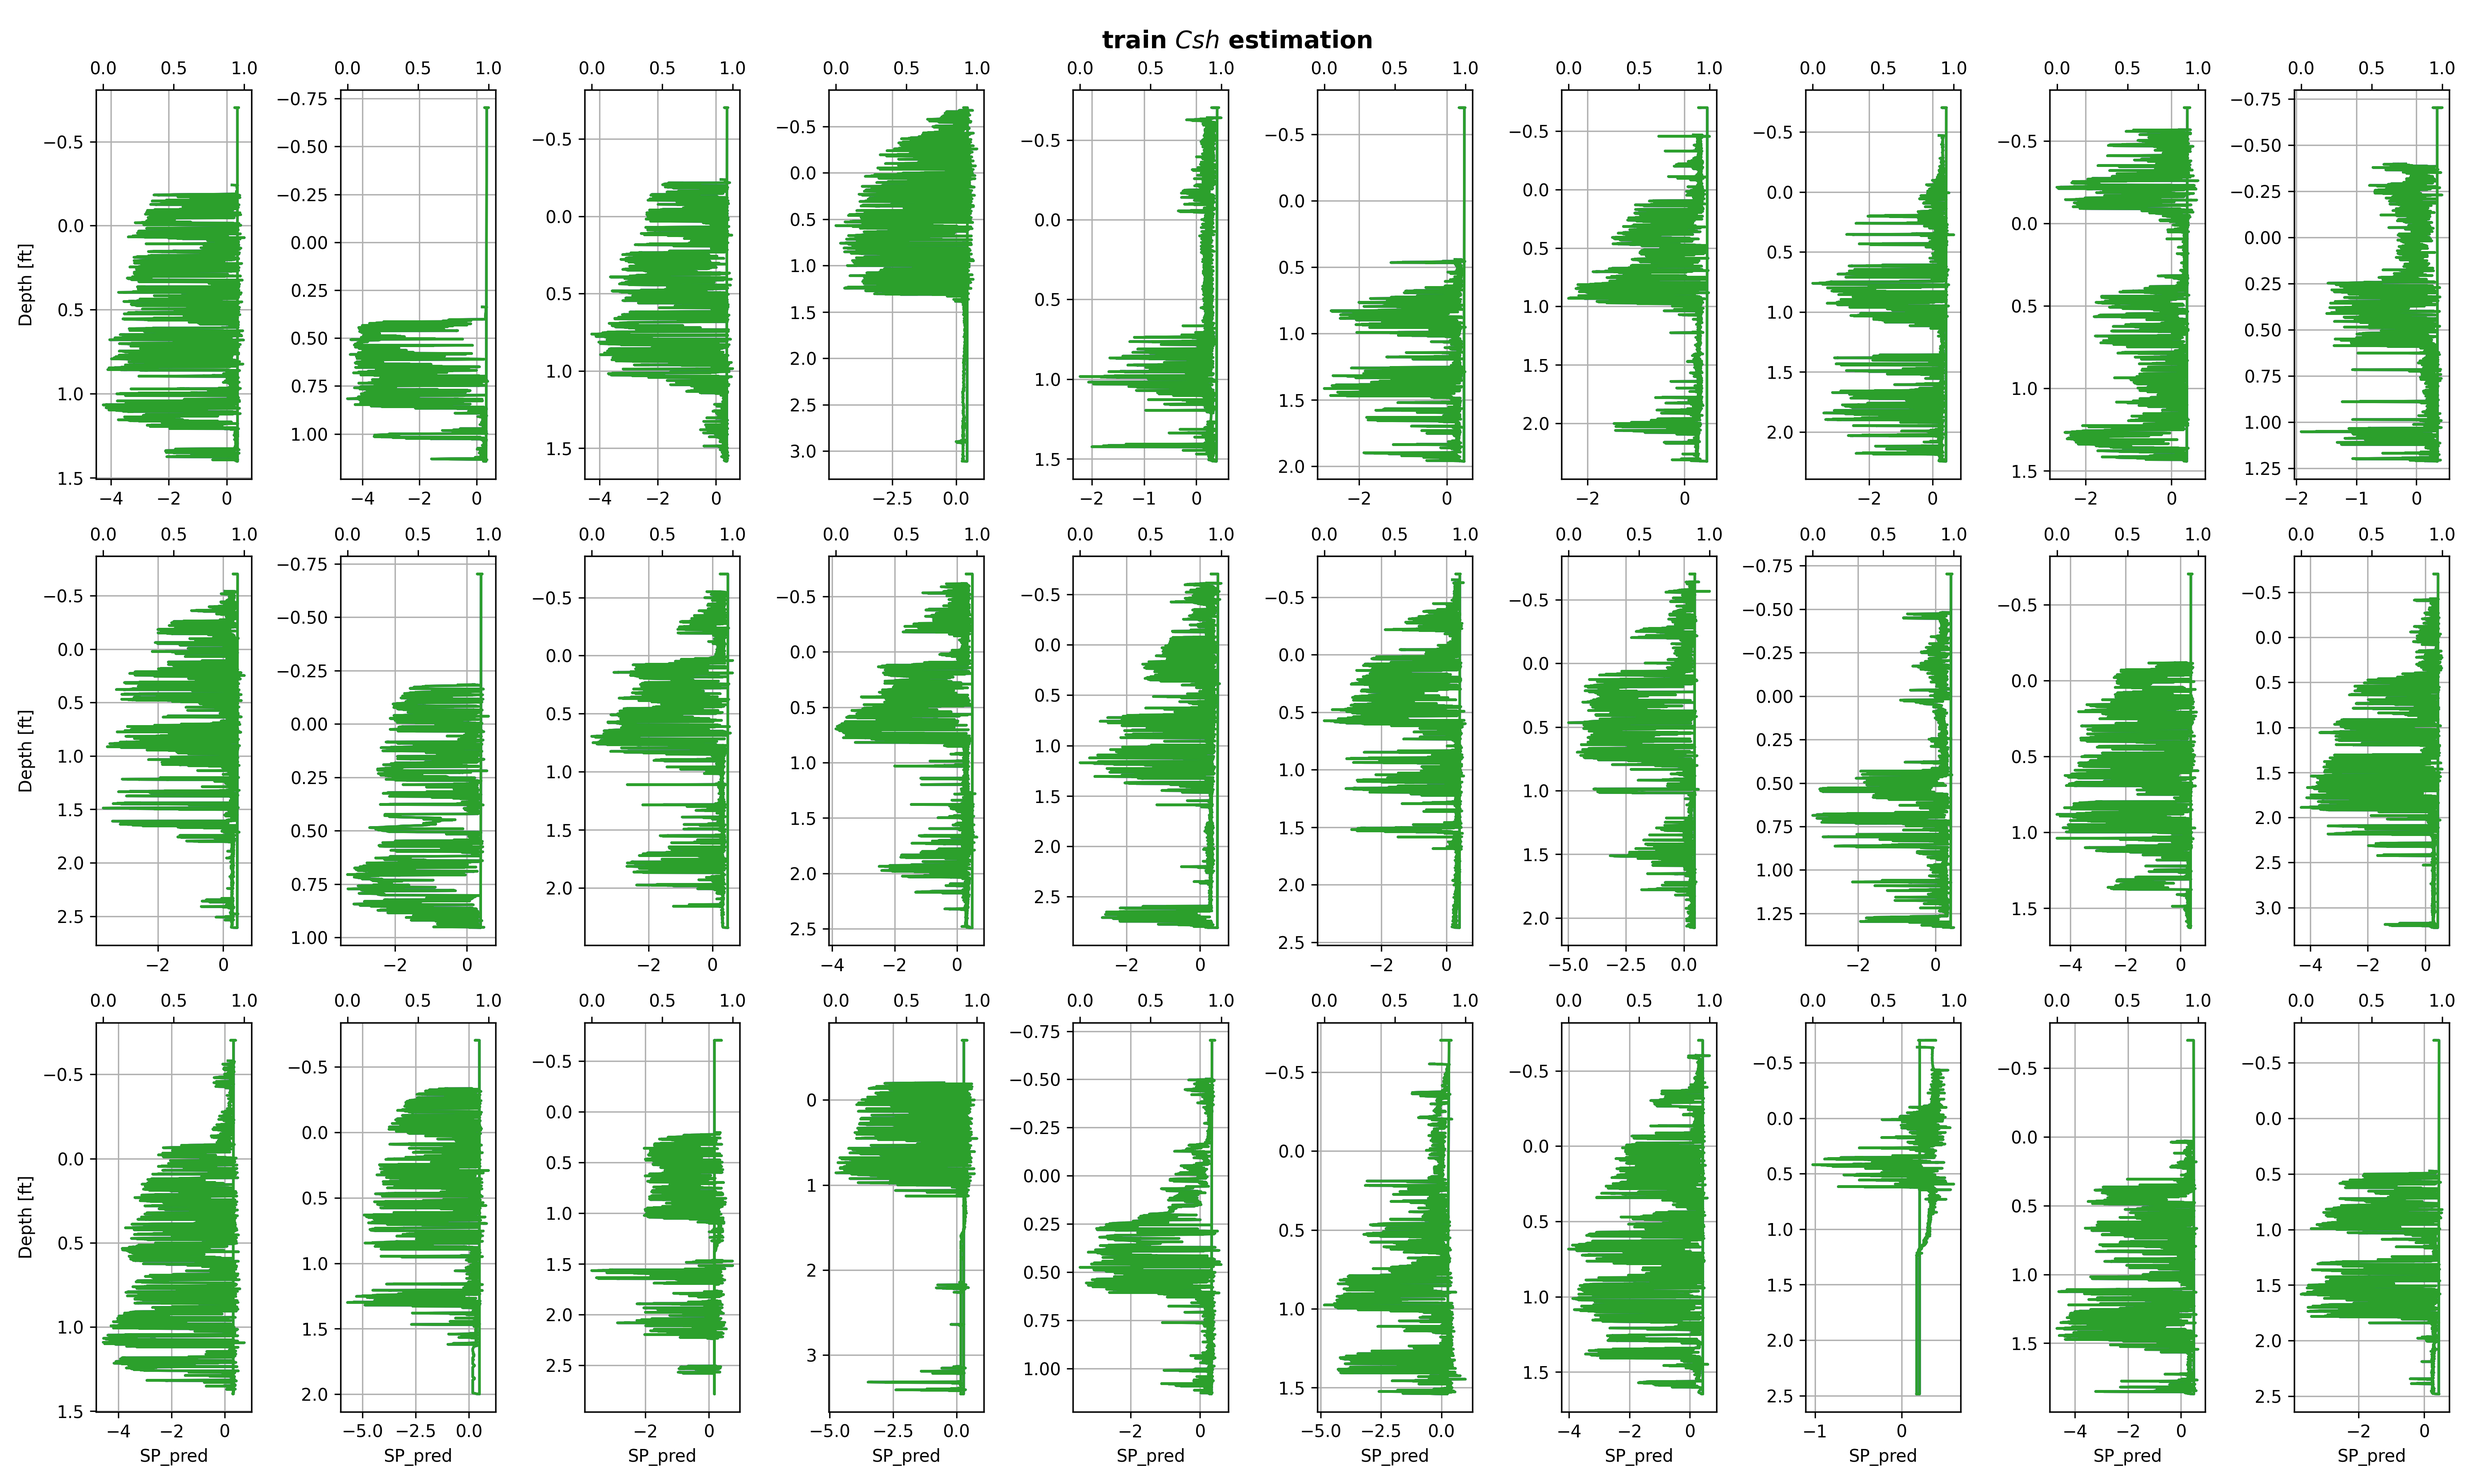
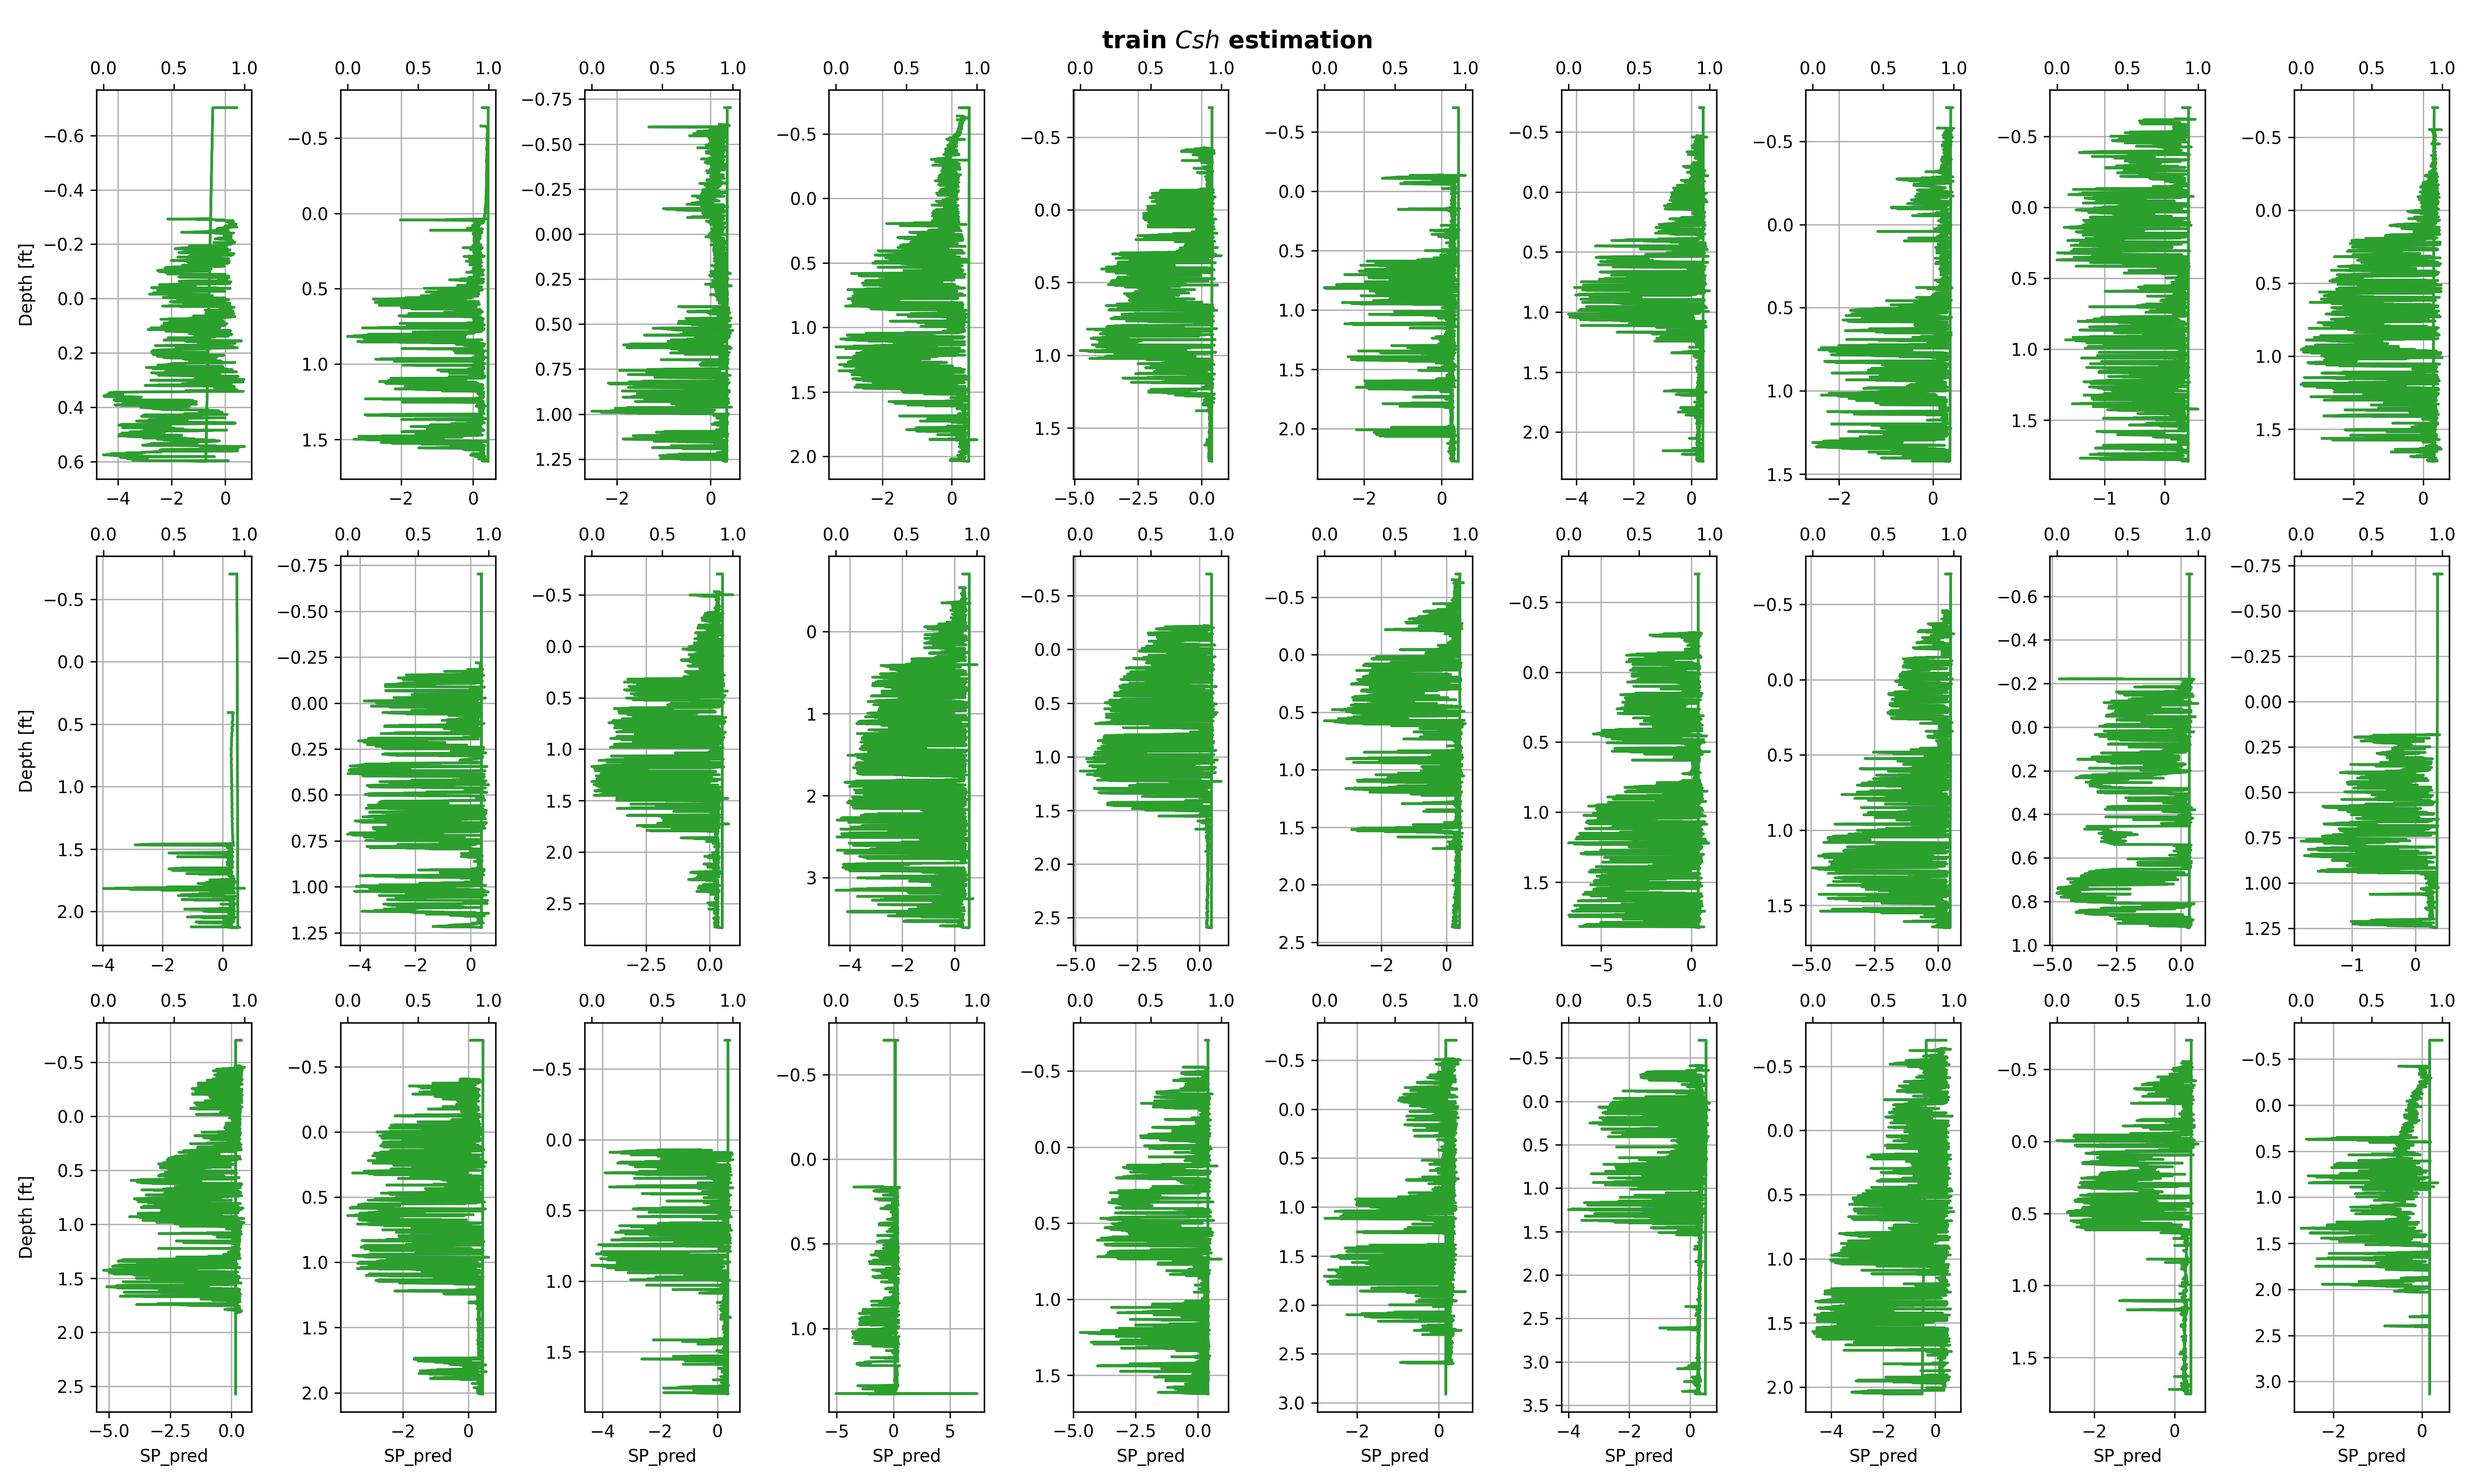
update
transfer learning and export to .LAS

diff --git a/auto_baseline_correction.py b/auto_baseline_correction.py
@@ -290,7 +290,7 @@ class BaselineCorrection:
             if self.return_data:
                 return self.model, self.encoder
         elif pretrained == None:
-            self.make_nn(kernel_size=kernel_size, drop=dropout, depths=depths)
+            self.make_nn(kernel_size=kernel_size, drop=dropout, depths=depths, in_channels=self.X_train.shape[-1])
             print('-'*50,'\n','# Parameters: {:,}'.format(self.model.count_params())) if self.verbose else None
             self.model.summary() if show_summary else None
             self.train_model(optimizer=optimizer, lr=lr, loss=loss, metrics=metrics, 
@@ -375,7 +375,7 @@ class BaselineCorrection:
             spline[i,:] = signal.cspline1d(l[i,:,1], lamb=spline_lambda)
         return np.expand_dims(spline, axis=-1)
 
-    def calc_features(self, data=None, data_clean=None):
+    def calc_features(self):
         if self.dxdz:
             logs_dxdz = self.calc_dxdz(self.logs)
             self.logs = np.concatenate((self.logs, logs_dxdz), axis=-1)
@@ -436,13 +436,12 @@ class BaselineCorrection:
         elif scaler=='none':
             self.logs_norm = data
         else:
-            raise ValueError('scaler must be "standard", "minmax" or "none"')
+            raise ValueError('Invalid scaler. Choose a scaler from ("standard", "minmax" or "none")')
         self.scaler_values = {'sd':sd, 'mu':mu, 'min':minvalue, 'max':maxvalue}
         return self.logs_norm if self.return_data else None
 
-    def make_nn(self, kernel_size:int=15, drop=0.2, depths=[16,32,64]):
+    def make_nn(self, kernel_size:int=15, drop=0.2, depths=[16,32,64], in_channels=10):
         K.clear_session()
-        ndata, nchannels = self.X_train.shape[1], self.X_train.shape[2]
         def enc_layer(inp, units):
             _ = layers.Conv1D(units, kernel_size, padding='same')(inp)
             _ = layers.BatchNormalization()(_)
@@ -466,7 +465,7 @@ class BaselineCorrection:
             _ = layers.ZeroPadding1D((1,0))(_)
             _ = layers.Conv1D(1, kernel_size, padding='same', activation='linear')(_)
             return _
-        inputs  = layers.Input(shape=(ndata, nchannels))
+        inputs  = layers.Input(shape=(None, in_channels))
         enc1    = enc_layer(inputs, depths[0])
         enc2    = enc_layer(enc1,   depths[1])
         zlatent = enc_layer(enc2,   depths[2])
@@ -660,6 +659,7 @@ class TransferLearning(BaselineCorrection):
         super().__init__()
         self.in_folder  = 'Data/UT Export 9-19'
         self.out_folder = 'Data/UT Export postprocess'
+        self.model      = keras.models.load_model('baseline_correction_model.keras')
     
     def make_transfer_prediction(self):
         files = os.listdir(self.in_folder)
@@ -668,11 +668,14 @@ class TransferLearning(BaselineCorrection):
             if 'SP' in log_las.curvesdict.keys():
                 self.log_df = pd.DataFrame({'DEPT': log_las['DEPT'], 'SP': log_las['SP']})
                 self.log    = np.array(self.log_df)
+                print('Log raw:', self.log.shape) if self.verbose else None
                 self.calc_transfer_features()
-                self.datascaler(data=self.log)
-                self.sp_pred  = self.model.predict(np.expand_dims(self.log,-1)).squeeze().astype('float32')
+                self.transfer_scaler()
+                d = np.expand_dims(self.log,0)
+                self.sp_pred  = self.model.predict(d).squeeze().astype('float32')
                 self.csh_pred = self.calc_csh()
-                log_las.append_curve('SP_PRED', self.sp_pred)
+                self.sp_pred_bt = self.transfer_scaler(mode='backtransform', inv_data=self.sp_pred)
+                log_las.append_curve('SP_PRED', self.sp_pred_bt)
                 log_las.append_curve('CSH_PRED', self.csh_pred)
                 log_las.write('{}/{}'.format(self.out_folder, file))
         return None
@@ -688,62 +691,145 @@ class TransferLearning(BaselineCorrection):
         z          = (d-lb) / (ub-lb)
         csh_uncert = (z-z.min()) / (z.max()-z.min())
         return csh_uncert
+    
+    def transfer_scaler(self, mode='transform', inv_data=None):
+        if mode=='transform':
+            sd, mu, minvalue, maxvalue = {}, {}, {}, {}
+            self.log_norm = np.zeros_like(self.log)
+            if self.scaler=='standard':
+                for k in range(self.log.shape[-1]):
+                    df = self.log[...,k]
+                    sd[k] = np.nanstd(df)
+                    mu[k] = np.nanmean(df)
+                    self.log_norm[...,k] = (df - mu[k]) / sd[k]
+            elif self.scaler=='minmax':
+                for k in range(self.log.shape[-1]):
+                    df = self.log[...,k]
+                    minvalue[k] = np.nanmin(df)
+                    maxvalue[k] = np.nanmax(df)
+                    self.log_norm[...,k] = (df - minvalue[k]) / (maxvalue[k] - minvalue[k])
+            elif self.scaler=='none':
+                self.log_norm = self.log
+            else:
+                raise ValueError('Invalid scaler. Choose a scaler from ("standard", "minmax" or "none")')
+            self.scaler_values = {'sd':sd, 'mu':mu, 'min':minvalue, 'max':maxvalue}
+            return self.log_norm if self.return_data else None
+        elif mode=='backtransform':
+            self.log_backtransform = np.zeros_like(self.log)
+            if self.scaler=='standard':
+                for k in range(self.log.shape[-1]):
+                    p = inv_data[...,k] * self.scaler_values['sd'][k]
+                    q = self.scaler_values['mu'][k]
+                    self.log_backtransform[...,k] = p + q 
+            elif self.scaler=='minmax':
+                for k in range(self.log.shape[-1]):
+                    p = inv_data[...,k] * (self.scaler_values['max'][k] - self.scaler_values['min'][k])
+                    q = self.scaler_values['min'][k]
+                    self.log_backtransform[...,k] = p + q
+            elif self.scaler=='none':
+                self.log_backtransform = inv_data
+            else:
+                raise ValueError('Invalid scaler. Choose a scaler from ("standard", "minmax" or "none")')
+        else:
+            raise ValueError('Invalid mode. Choose a mode from ("transform" or "backtransform")')
 
-    def calc_transfer_features(self):                
+    def calc_transfer_features(self):  
+        d = self.log[:,1]              
         if self.dxdz:
-            log_dxdz = self.calc_dxdz(self.log)
-            self.log = np.concatenate([self.log, log_dxdz], axis=-1)
+            log_dxdz = np.gradient(d)
+            self.log = np.concatenate([self.log, np.expand_dims(log_dxdz,-1)], axis=-1)
             print('Log with Depth Derivative:', self.log.shape) if self.verbose else None
         if self.autocorr:
-            log_ac = self.calc_autocorr(self.log, self.autocorr_mode, self.autocorr_method)
-            self.log = np.concatenate([self.log, log_ac], axis=-1)
+            log_ac   = signal.correlate(d, d, mode=self.autocorr_mode, method=self.autocorr_method)
+            self.log = np.concatenate([self.log, np.expand_dims(log_ac,-1)], axis=-1)
             print('Log with Autocorrelation:', self.log.shape) if self.verbose else None
         if self.detrend:
-            log_detrend = self.calc_detrend(self.log)
-            self.log = np.concatenate([self.log, log_detrend], axis=-1)
+            log_detrend = signal.detrend(d)
+            self.log = np.concatenate([self.log, np.expand_dims(log_detrend,-1)], axis=-1)
             print('Log with Detrend filter:', self.log.shape) if self.verbose else None
         if self.fourier:
-            log_fft = self.calc_fourier(self.log, self.fourier_window, self.fourier_scale)
-            self.log = np.concatenate([self.log, log_fft], axis=-1)
+            log_fft  = signal.zoom_fft(d, self.fourier_window)/self.fourier_scale
+            self.log = np.concatenate([self.log, np.expand_dims(log_fft,-1)], axis=-1)
             print('Log with Fourier Transform:', self.log.shape) if self.verbose else None
         if self.hilbert:
-            log_hilbert = self.calc_hilbert(self.log)
-            self.log = np.concatenate([self.log, log_hilbert], axis=-1)
+            log_hilbert = np.abs(signal.hilbert(d))
+            self.log = np.concatenate([self.log, np.expand_dims(log_hilbert,-1)], axis=-1)
             print('Log with Hilbert Transform:', self.log.shape) if self.verbose else None
         if self.symiir:
-            log_symiir = self.calc_symiir(self.log, self.symiir_c0, self.symiir_z1)
-            self.log = np.concatenate([self.log, log_symiir], axis=-1)
+            log_symiir = signal.symiirorder1(d, self.symiir_c0, self.symiir_z1)
+            self.log = np.concatenate([self.log, np.expand_dims(log_symiir,-1)], axis=-1)
             print('Log with Symmetric IIR filter:', self.log.shape) if self.verbose else None
         if self.savgol:
-            log_savgol = self.calc_savgol(self.log, self.savgol_window, self.savgol_order)
-            self.log = np.concatenate([self.log, log_savgol], axis=-1)
+            log_savgol = signal.savgol_filter(d, self.savgol_window, self.savgol_order)
+            self.log = np.concatenate([self.log, np.expand_dims(log_savgol,-1)], axis=-1)
             print('Log with Savitzky-Golay filter:', self.log.shape) if self.verbose else None
         if self.cspline:
-            log_cspline = self.calc_cspline(self.log, self.spline_lambda)
-            self.log = np.concatenate([self.log, log_cspline], axis=-1)
+            log_cspline = signal.cspline1d(d, lamb=self.spline_lambda)
+            self.log = np.concatenate([self.log, np.expand_dims(log_cspline,-1)], axis=-1)
             print('Log with Cubic Spline:', self.log.shape) if self.verbose else None
         if self.decimate:
-            log_decimate = signal.decimate(self.log, q=self.decimate_q, axis=1)
-            print('Well log Decimated {}x: {}'.format(self.decimate_q, log_decimate.shape)) if self.verbose else None
+            self.log_decimate = signal.decimate(d, q=self.decimate_q, axis=1)
+            print('Well log Decimated {}x: {}'.format(self.decimate_q, self.log_decimate.shape)) if self.verbose else None
+
 
 ###########################################################################
 ############################## MAIN ROUTINE ###############################
 ###########################################################################
+# if __name__ == '__main__':
 
+#     ### Log Analysis
+#     spl = SPLogAnalysis()
+#     spl.plot_ccs_sand_wells()
+#     spl.plot_survey()
+#     spl.plot_well('17700004060000')
+
+#     ### Automatic Baseline Correction
+#     blc = BaselineCorrection()
+#     blc.load_logs()
+#     blc.scale_and_random_split()
+#     blc.make_model()
+#     blc.make_predictions()
+
+#     ### Transfer Learning Baseline Correction
+#     tlc = TransferLearning()
+#     tlc.make_transfer_prediction()
+            
 if __name__ == '__main__':
-
     ### Log Analysis
     spl = SPLogAnalysis()
-    spl.plot_ccs_sand_wells()
-    spl.plot_survey()
-    spl.plot_well('17700004060000')
+    spl.plot_ccs_sand_wells(figsize=(8,3), value='POROSITY', cmap='jet')
+    spl.plot_survey(figsize=(10,3), fname='427064023000_DIRSUR_NAD27(USFEET)US-SPC27-EXACT(TX-27SC).TXT')
+    spl.plot_well(figsize=(10,8), well_name='17700004060000', curve='SP', order=(5,1,0))
 
     ### Automatic Baseline Correction
     blc = BaselineCorrection()
-    blc.load_logs()
-    blc.scale_and_random_split()
-    blc.make_model()
-    blc.make_predictions()
+    blc.load_logs(preload      = False,
+                  preload_file = 'Data/log_data.npy',
+                  folder       = 'Data/UT Export 9-19',
+                  save_file    = 'Data/log_data.npy',
+                  showfig      = True,
+                  )    
+    blc.scale_and_random_split(scaler    = 'standard', 
+                               test_size = 0.227, 
+                               showfig   = True)
+    blc.make_model(pretrained   = None,
+                   show_summary = True, 
+                   kernel_size  = 15, 
+                   dropout      = 0.2,
+                   depths       = [16,32,64], 
+                   optimizer    = 'adam',
+                   lr           = 1e-3,
+                   loss         = 'mse',
+                   metrics      = ['mse'],
+                   epochs       = 100,
+                   batch_size   = 30,
+                   valid_split  = 0.25,
+                   verbose      = True,
+                   figsize      = (10,5),
+                   )
+    blc.make_predictions(showfig=True,
+                         xlim=(-5,5),
+                         )
 
     ### Transfer Learning Baseline Correction
     tlc = TransferLearning()
